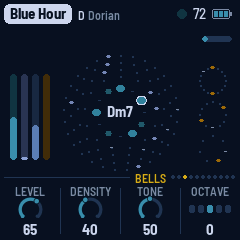
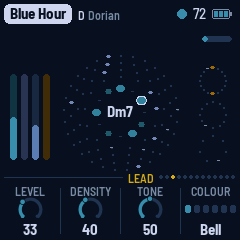
The Bells page is the Lead page: the melody, whatever voice; the Lead voice is now Synth

diff --git a/app/ui.c b/app/ui.c
@@ -18,7 +18,7 @@
 
 /* the pages, one a layer (a button each); SELECT steps through them in this order */
 enum { V_GARDEN, V_PAD, V_BELLS, V_ARP, V_BASS, V_PULSE, V_SPACE, V_SETUP, V_CHORDS, V_ROOTS, V_DEAL, V_RINGS, V_DREAM, NVIEWS };
-static const char *const VIEW_NAME[NVIEWS] = {"Garden", "Pad", "Bells", "Arp", "Bass", "Pulse", "Space", "Setup", "Chords", "Keys", "Deal", "Rings", "Dream"};
+static const char *const VIEW_NAME[NVIEWS] = {"Garden", "Pad", "Lead", "Arp", "Bass", "Pulse", "Space", "Setup", "Chords", "Keys", "Deal", "Rings", "Dream"};
 static const uint8_t VIEW_BTN[NVIEWS] = {B_HOME, B_ENV, B_ARP, B_ARP, B_LFO, B_SEQ, B_FX, B_GLO, B_SEL, B_SEL, B_SEL, B_SEQ, B_HOME};
 /* the four knobs of each page: a parameter, or one of these; and what the knob is called there */
 enum { K_LEDS = 100, K_CPU, K_NONE };
@@ -823,7 +823,7 @@ static void button(int b)
         {
             char t[8];
             en_param_text(P_BOCT, proj.par[P_BOCT], t);
-            say("BELL OCTAVE", t);
+            say("LEAD OCTAVE", t);
         }
         break;
     case B_SAVE:
@@ -1362,7 +1362,7 @@ static int help_lines(int b, const char *l[HELP_LINES])
     switch (b) {
     case B_HOME: L("THE DREAM: DREAM, RANGE,"); L("SPICE CAP, SEED"); L("AGAIN: THE GARDEN"); L("+ SELECT: TEMPO"); break;
     case B_ENV: L("THE PAD"); L("LEVEL, SWELL, BRIGHT,"); L("COLOUR"); break;
-    case B_ARP: L("THE BELLS"); L("LEVEL, DENSITY, TONE,"); L("COLOUR; AGAIN: THE ARP"); break;
+    case B_ARP: L("THE LEAD"); L("LEVEL, DENSITY, TONE,"); L("COLOUR; AGAIN: THE ARP"); break;
     case B_SEL: L("SELECT"); L("TAP: CHORDS, KEYS, DEAL"); L("HOLD: THIS PAGE'S"); L("OTHER KNOBS (+)"); break;
     case B_LFO: L("THE BASS"); L("LEVEL, OCTAVE, GLIDE, FIFTH"); break;
     case B_SEQ: L("THE PULSE"); L("LEVEL, HITS, SWING, HATS"); L("AGAIN: THE RINGS"); break;
@@ -1370,8 +1370,8 @@ static int help_lines(int b, const char *l[HELP_LINES])
     case B_GLO: L("SETUP"); L("ROOT, TUNE, MIDI OUT, LIGHTS"); break;
     case B_EDIT: L("THE NEXT CHORD,"); L("ON THE NEXT BAR"); break;
     case B_REC: L("FREEZE: THE CHORD HOLDS"); L(" AND THE REVERB RINGS ON"); L("AGAIN: THAW"); break;
-    case B_OCTDN: L("THE BELLS AN OCTAVE DOWN"); L("WITH OCT+, 5 S: UPDATE MODE"); break;
-    case B_OCTUP: L("THE BELLS AN OCTAVE UP"); L("WITH OCT-, 5 S: UPDATE MODE"); break;
+    case B_OCTDN: L("THE LEAD AN OCTAVE DOWN"); L("WITH OCT+, 5 S: UPDATE MODE"); break;
+    case B_OCTUP: L("THE LEAD AN OCTAVE UP"); L("WITH OCT-, 5 S: UPDATE MODE"); break;
     case B_SAVE: L("SAVES ALL EIGHT PIECES"); L("KEEP HOLDING: THE PIECE"); L(" BACK TO ITS RECIPE"); break;
     default: break;
     }
@@ -1958,7 +1958,7 @@ static void speak_dump(void)
     for (x = -2; x <= 2; x++) {
         char o[8];
         en_param_text(P_BOCT, x, o);
-        msg_text("BELL OCTAVE", o, t);
+        msg_text("LEAD OCTAVE", o, t);
         sp_print("MSG", t);
     }
     for (x = 30; x <= 120; x += 45) {

diff --git a/app/dsp/amb.c b/app/dsp/amb.c
@@ -25,12 +25,12 @@ const uint8_t EN_SLATE_BARS[EN_NBARS] = {1, 2, 3, 4, 6, 8, 12, 16, 24, 32};
 static const uint8_t EN_ROOT_BARS[EN_NRBARS] = {1, 2, 4, 8, 12, 16, 24, 32, 48, 64, 96, 128};
 
 static const en_param_t PARAMS[P_NPARAMS] = {
-    {"Pad", 0, 100, 60},      {"Bells", 0, 100, 33},    {"Bass", 0, 100, 45},     {"Pulse", 0, 100, 40},
+    {"Pad", 0, 100, 60},      {"Lead", 0, 100, 33},    {"Bass", 0, 100, 45},     {"Pulse", 0, 100, 40},
     {"Density", 0, 100, 40},  {"Evolve", 0, 100, 35},   {"Drift", 0, 100, 25},    {"Hits", 0, 100, 35},
     {"Echo", 0, 100, 45},     {"Echo time", 0, 5, 3},   {"Reverb", 0, 100, 65},   {"Size", 0, 100, 80},
-    {"Bright", 0, 100, 40},   {"Swell", 0, 100, 60},    {"Bell tone", 0, 100, 50}, {"Motion", 0, 100, 50},
+    {"Bright", 0, 100, 40},   {"Swell", 0, 100, 60},    {"Lead tone", 0, 100, 50}, {"Motion", 0, 100, 50},
     {"Tune", -50, 50, 0},     {"MIDI out", 0, 1, 1},    {"Tempo", 30, 120, 72},   {"Root", 0, 11, 2},
-    {"Mode", 0, EN_NMODES - 1, 1}, {"Bell oct", -2, 2, 0}, {"Pad tone", 0, 3, 0},
+    {"Mode", 0, EN_NMODES - 1, 1}, {"Lead oct", -2, 2, 0}, {"Pad tone", 0, 3, 0},
     {"Bass oct", -1, 1, 0},   {"Glide", 0, 100, 20},    {"Fifth", 0, 100, 35},
     {"Swing", 0, 100, 0},     {"Hats", 0, 100, 50},
     {"Chord 1", 0, 12 * EN_NSHAPE, 0}, {"Chord 2", 0, 12 * EN_NSHAPE, 0},
@@ -44,7 +44,7 @@ static const en_param_t PARAMS[P_NPARAMS] = {
     {"Root 1", 0, 12, 0},     {"Root 2", 0, 12, 0},     {"Root 3", 0, 12, 0},     {"Root 4", 0, 12, 0},
     {"Root bars 1", 0, EN_NRBARS - 1, 3}, {"Root bars 2", 0, EN_NRBARS - 1, 3}, {"Root bars 3", 0, EN_NRBARS - 1, 3},
     {"Root bars 4", 0, EN_NRBARS - 1, 3},
-    {"Bell colour", 0, EN_NBCOLOR - 1, 0},
+    {"Lead colour", 0, EN_NBCOLOR - 1, 0},
     {"Swoosh", 0, 100, 0},    {"Swsh length", 0, 100, 50}, {"Swsh often", 0, 100, 30}, {"Swsh tone", 0, 100, 50},
     {"Seed", 0, 999, 0},
     {"Deal", 0, 999, 0},     {"Deal count", 2, 4, 4}, {"Spice", 0, 100, 30}, {"Form", 0, EN_NDFORM - 1, 1},
@@ -94,7 +94,7 @@ static const uint8_t ARATE_STEPS[EN_NARATE] = {4, 3, 2, 1};      /* sixteenths a
 static const char *const APOLY_NAME[EN_NAPOLY] = {"Off", "3:4", "5:4", "3:2", "7:4"};
 static const uint8_t APOLY_NUM[EN_NAPOLY] = {1, 3, 5, 3, 7}, APOLY_DEN[EN_NAPOLY] = {1, 4, 4, 2, 4};
 static const float ARATE_DEC[EN_NARATE] = {1.0f, 0.8f, 0.6f, 0.4f};   /* the faster, the shorter the bell */
-static const char *const BCOLOR_NAME[EN_NBCOLOR] = {"Bell", "Soft", "Wood", "Strings", "Piano", "Lead"};
+static const char *const BCOLOR_NAME[EN_NBCOLOR] = {"Bell", "Soft", "Wood", "Strings", "Piano", "Synth"};
 static const char *const PADTONE_NAME[4] = {"Rhodes", "Voices", "Strings", "Noir"};
 static const char *const SPREAD_NAME[4] = {"Close", "Open", "Wide", "Vast"};
 static const char *const ETIME_NAME[6] = {"1/4.", "1/2", "1/2.", "1 bar", "2 bars", "4 bars"};

diff --git a/tools/gen_manual_figures.py b/tools/gen_manual_figures.py
@@ -94,7 +94,7 @@ def panel(screen_png):
          knob(105, 210, 24, "PRESETS", "Piece"), knob(215, 210, 24, "ALGORITHM", "Mode"),
          f'<rect x="58" y="284" width="210" height="58" rx="14" fill="{TRAY}"/>',
          button(72, 294, 82, 38, "OCT-"), button(170, 294, 82, 38, "OCT+"),
-         what(113, 362, "Bells down"), what(211, 362, "Bells up"),
+         what(113, 362, "Lead down"), what(211, 362, "Lead up"),
          f'<rect x="300" y="44" width="236" height="236" rx="26" fill="#111214"/>',
          f'<image x="318" y="62" width="200" height="200" href="{png_data_uri(screen_png)}" style="image-rendering:pixelated"/>']
     for i in range(4):
@@ -102,7 +102,7 @@ def panel(screen_png):
     s.append(what(766, 136, "The page's four values (KNOB1: a layer's level)"))
     s.append(f'<rect x="568" y="146" width="400" height="236" rx="18" fill="{TRAY}"/>')
     top = [("FX", "Space"), ("SEL", ""), ("ENV", "Pad"), ("LFO", "Bass"), ("EDIT", "Next|chord"), ("GLO", "Setup")]
-    bot = [("HOME", "Garden"), ("SAVE", "Save, hold:|recipe"), ("ARP", "Bells"), ("SEQ", "Pulse"),
+    bot = [("HOME", "Dream"), ("SAVE", "Save, hold:|recipe"), ("ARP", "Lead"), ("SEQ", "Pulse"),
            (("PLAY", "STOP"), "Grow /|rest"), ("REC", "Freeze")]
     for i in range(6):
         x = 582 + i * 63

diff --git a/tests/host/amb_test.c b/tests/host/amb_test.c
@@ -1198,7 +1198,7 @@ int main(void)
 
     /* the bells' colours: each sounds, stays bounded and clean; the strike comes as it should */
     {
-        static const char *const NAME[EN_NBCOLOR] = {"Bell", "Soft", "Wood", "Strings", "Piano", "Lead"};
+        static const char *const NAME[EN_NBCOLOR] = {"Bell", "Soft", "Wood", "Strings", "Piano", "Synth"};
         float early[EN_NBCOLOR], later[EN_NBCOLOR];
         char t[12];
         int c;

diff --git a/docs/MANUAL.md b/docs/MANUAL.md
@@ -95,13 +95,13 @@ The drawing at the top shows them all; here they are in more detail.
 | REC | **Freeze**: the chord holds and the reverb rings on forever, while the bells and pulse go on dry above it. Press again to thaw. Lit while frozen. |
 | EDIT | The next chord, at the start of the next bar (at once while resting). |
 | HOME | The Dream page, where it starts: Dream, Range, Spice cap, Seed. Again: the Garden page. |
-| ENV · ARP · LFO · SEQ | The layers' pages: Pad, Bells, Bass, Pulse. |
+| ENV · ARP · LFO · SEQ | The layers' pages: Pad, Lead, Bass, Pulse. |
 | FX · GLO | The Space and Setup pages. The lit button shows the page. |
 | SELECT | The previous or next page. Hold HOME and turn it for the tempo, from any page. |
 | ALGORITHM | Mode: Ionian, Dorian, Phrygian, Lydian, Mixolydian, Aeolian, pentatonic major and minor. Loads the mode's scale; editing it with the keys makes it Custom. |
 | PRESETS | The piece (see [The pieces](#s6)). |
 | KNOB 1–4 | The four values on the screen. A few clicks are always single steps; a quick turn speeds up, so half a turn sweeps the range. |
-| OCT− / OCT+ | The bells' octave, two down to two up, from any page. |
+| OCT− / OCT+ | The lead's octave, two down to two up, from any page. |
 | MASTER | Volume. |
 | SAVE | Saves all eight pieces. Held for 1.5 s: puts the piece back to its recipe. |
 
@@ -150,7 +150,7 @@ Nightscape FM grows four layers from one scale and one chord.
   a filtered Rhodes that blooms brighter as it swells, or sung voices. Every so often (**Drift**)
   the chord moves to another one in the scale. Voices on notes the new chord shares hold to the
   end of their breath; the others fade out and breathe in again on their new notes.
-- **Bells:** FM bells, soft-struck like a piano slowed to half speed, played by four tape loops
+- **Lead:** the melody, in six voices. Its first, **Bell**: FM bells, soft-struck like a piano slowed to half speed, played by four tape loops
   13, 17, 23 and 29 beats long. Each loop holds a few notes, so the loops slide against each other
   and the melody never quite repeats. Each loop is its own shade of bell, and now and then a
   note rings with its octave.
@@ -197,7 +197,7 @@ the same for all.
 
 ## 7. The pages
 
-**Hold SELECT** on the Garden, Pad, Bells, Bass, Space, Setup, Chords, Keys or Deal page and the knobs change to that
+**Hold SELECT** on the Garden, Pad, Lead, Bass, Space, Setup, Chords, Keys or Deal page and the knobs change to that
 page's other settings; let go and they're back. Holding and turning doesn't change the page. While it's held the
 page's name has a **+** (or a **-** where a page has no second layer), and a place with nothing in it shows a dash.
 Hold SELECT for two seconds without turning and a card says what it does.
@@ -310,18 +310,18 @@ sound. Everything it deals shows on its own page and can be turned by hand after
   keeps the dream playing; on from there, its neighbours. A toast names it (**DREAM 417**, and its chords).
 - **Range (KNOB 2):** how far the sound may move from the piece's recipe. At 0 only the notes, the chords, the
   key and the voices are dealt. On up, the levels, Density, Evolve, Motion, Hits, Hats, Swing, the echo and reverb, the
-  pad's Swell and Bright, the bells' tone, Glide, Fifth, Sparkle and Swoosh move too, each within a window round
+  pad's Swell and Bright, the lead's tone, Glide, Fifth, Sparkle and Swoosh move too, each within a window round
   the recipe, so the piece stays itself. The tempo moves at most 15%. The voicings come too, more often
-  the higher it is: the pad's Notes (from 30) and the bells' octave, one either way, and the pad's Spread.
+  the higher it is: the pad's Notes (from 30) and the lead's octave, one either way, and the pad's Spread.
 - **The voices,** whatever Range, a new pair each dream: the pad's Colour (Rhodes, Voices, Strings, Noir),
-  and the bells' Colour, **Lead** most often (about 3 dreams in 8; with it Density no higher than 45, so the
+  and the lead's Colour, **Synth** most often (about 3 dreams in 8; with it Density no higher than 45, so the
   solo sings), then Bell, Soft, Wood, Strings and Piano.
 - **Spice cap (KNOB 3):** the most Spice either dealer may be given.
 - **The scale too,** with Range: calm dreams lean to the open, bright ones (Lydian, Ionian, major pentatonic,
   Dorian), lively ones to Mixolydian, Aeolian and minor pentatonic; Phrygian seldom.
 - **The key,** whatever Range: any of the twelve, a new one each dream. The song still starts on its home
   chord, so the first chord lands anywhere.
-- **The Lead** sits an octave down (now and then two), so it sings rather than pierces. The bells' level
+- **Synth** sits an octave down (now and then two), so it sings rather than pierces. The lead's level
   stays at the piece's (33).
 - **What it never does:** turn on a part the recipe has off, or turn one down to nothing; change the tuning or
   MIDI. With Dream off, PRESETS brings a piece back in its own key.
@@ -336,7 +336,7 @@ changing on its own clock.
 
 - **A section** lasts whole passes of the chords, about two and a half minutes. With keys dealt or set, each key is a
   section, home the first, and lasts at least that long.
-- **Through a section** the bells' loops keep their melody. What Density adds back comes from it first.
+- **Through a section** the lead's loops keep their melody. What Density adds back comes from it first.
 - **At a section's end** the melody moves on (further with Evolve), and the rings, the arp and the bass's figure may
   turn. The pulse may breathe for the last two bars before it.
 - **A section comes back as itself:** without keys the sections go A B A C A B..., and an A brings back the first
@@ -354,10 +354,10 @@ pad's note up high, and a rising chord when one comes. All of the chord and its 
 - **Length (KNOB 2):** how long each wave swells and wanes, 5 s to 1 minute.
 - **Often (KNOB 3):** the rest between waves, 10 s to 5 minutes.
 
-Each wave varies a little, and the arc leans on it. It shares the bells' voices, and its volume
-follows the Bells level. Turned up from 0, the first wave starts within a couple of seconds.
+Each wave varies a little, and the arc leans on it. It shares the lead's voice, and its volume
+follows the Lead level. Turned up from 0, the first wave starts within a couple of seconds.
 
-### Hold SELECT: Pad, Bass and Bells
+### Hold SELECT: Pad, Bass and Lead
 
 - **Pad, Notes (KNOB 2):** how much of the chord the pad sings. 4 is the whole chord; 3 its root,
   third and fifth; 2 its root and fifth, open. Under 4, the arc moves it by one as each chord comes.
@@ -370,19 +370,19 @@ follows the Bells level. Turned up from 0, the first wave starts within a couple
   that speed. It plays the root first, then the fifth (from 25), the octave (from 50), and the third
   and seventh (from 75). Only the chord's tones, so it follows the slate and the drift. Fifth is for
   the held bass; with Notes up, Glide is capped so each note arrives.
-- **Bells, Octave (KNOB 1):** two down to two up (OCT− and OCT+ too).
-- **Bells, Colour** is on the Bells page itself now, KNOB 4: the bells' sound. **Bell** is the one they've always had; **Soft** is round,
+- **Lead, Octave (KNOB 1):** two down to two up (OCT− and OCT+ too).
+- **Lead, Colour** is on the Lead page itself, KNOB 4: the lead's voice. **Bell** is the one it's always had; **Soft** is round,
   with no strike; **Wood** is hollow and holds; **Strings** swell slowly and hang; **Piano** strikes
   warm and mellows. Tone still shapes each one. The loops, the arp and Sparkle all play through it.
   They are the same two operators set differently: impressions, not the instruments themselves.
-  **Lead** is not a bell: a solo synth that takes all their notes, two voices in turn, so each starts clean on its
+  **Synth** is not a bell: a solo synth that takes all their notes, two voices in turn, so each starts clean on its
   pitch while the one before trails off:
   two saws through a filter that opens as it sounds, a late vibrato, into the echo and reverb.
-  Bell tone is its brightness. With busy loops it runs; with few, it sings.
+  Tone is its brightness. With busy loops it runs; with few, it sings.
 
 ### ARP again: Arp
 
-Press ARP from the Bells page for the arp's own page, and again to go back.
+Press ARP from the Lead page for the arp's own page, and again to go back.
 
 - **Arp (KNOB 1):** **Off**, or an arpeggio of the chord's tones in place of the loops: **Up**,
   **Down**, **Up/Dn**, **Dn/Up**, **Random**, **Converge** (in from both ends) or **Diverge** (out
@@ -392,7 +392,7 @@ Press ARP from the Bells page for the arp's own page, and again to go back.
 - **Poly (KNOB 4):** **Off**, or the arp against the grid: **3:4**, **5:4**, **3:2** or **7:4**
   (so many notes in the time of so many Rate steps). It stays locked to the tempo, shifts against
   the pulse and comes back around. Every note takes the chord as it's struck.
-- **With the arp on, Density** (on the Bells page) picks which of 16 steps sound, spread as Hits does
+- **With the arp on, Density** (on the Lead page) picks which of 16 steps sound, spread as Hits does
   the pulse: 100 plays every step. The arc and Evolve act on it, and Swing does while Poly is off.
 
 ### ENV: Pad
@@ -407,16 +407,16 @@ Press ARP from the Bells page for the arp's own page, and again to go back.
   warm filter that Bright opens; or **Noir**, brass in the manner of a CS-80, a filter that blooms
   open with each breath and a slow vibrato, for the rain-and-neon feel. Each piece keeps its own.
 
-### ARP: Bells
+### ARP: Lead
 
-![The Bells page: LEVEL 65, DENSITY 40, TONE 50, OCTAVE 0](img/screen-bells.png "The Bells page")
+![The Lead page: LEVEL, DENSITY, TONE, COLOUR](img/screen-bells.png "The Lead page")
 
 - **Level.**
 - **Density:** how many notes each loop holds, none at 0 to five at the top. Low, they're the
   chord's tones; from 20, passing notes come in. A change shows up as
   each loop comes round.
 - **Tone:** from round and soft-struck to a long metallic clang.
-- **Colour:** the bells' sound: Bell, Soft, Wood, Strings, Piano, or Lead, a solo synth (below). The pad's
+- **Colour:** the lead's voice: Bell, Soft, Wood, Strings, Piano, or Synth, a solo synth (above). The pad's
   Colour is its page's KNOB 4 too. Octave is with SELECT held.
 
 ### LFO: Bass
@@ -470,7 +470,7 @@ and the open hat (7). Press SEQ again from the Pulse page, and again to go back.
 ### Seed, on the Dream page
 
 **KNOB 4**, beside Dream, Range and Spice cap: the piece's dice together. A piece's knobs are its personality; the dice decide the rest: which notes
-the bells' loops hold, how the patterns turn, where the chords drift, how the arc rises and falls.
+the lead's loops hold, how the patterns turn, where the chords drift, how the arc rises and falls.
 
 - **Wild** (all the way down) is a new garden each time, as it always was.
 - **A number, 1 to 999,** grows the same garden each time you press PLAY. It still grows and changes as
@@ -536,7 +536,7 @@ chord and the scale. The FM-1 says nothing until the page connects, so a DAW on 
 ## 9. Saving
 
 Nightscape FM keeps all eight pieces in the FM-1's memory, each as you left it: the knobs, the scale,
-the tempo, the pad's colour and the bells' octave, plus Tune, MIDI out and Lights.
+the tempo, the pad's colour and the lead's octave, plus Tune, MIDI out and Lights.
 
 - **By itself:** a few seconds after a change, but only while resting. Writing to the memory
   interrupts the sound for a moment, so it never happens while the garden grows. A dot at the top
@@ -633,7 +633,7 @@ The defaults are Blue Hour's; each piece has its own.
 | Garden | Length (SELECT held) | 5 s – 1 min | 20 s |
 | Garden | Often (SELECT held) | 10 s – 5 min | 45 s |
 | Pad | Notes (SELECT held) | 2, 3, 4 | 4 |
-| Bells | Colour | Bell, Soft, Wood, Strings, Piano, Lead | Bell |
+| Lead | Colour | Bell, Soft, Wood, Strings, Piano, Synth | Bell |
 | Arp | Arp | Off, Up, Down, Up/Dn, Dn/Up, Random, Converge, Diverge | Off |
 | Arp | Rate | 1/4, 1/8., 1/8, 1/16 | 1/8 |
 | Arp | Range | 1–3 octaves | 2 |
@@ -645,10 +645,10 @@ The defaults are Blue Hour's; each piece has its own.
 | Pad | Swell | 0–100 | 60 |
 | Pad | Bright | 0–100 | 40 |
 | Pad | Colour | Rhodes, Voices, Strings, Noir | Rhodes |
-| Bells | Level | 0–100 | 65 |
-| Bells | Density | 0–100 (0 to 5 notes a loop) | 40 |
-| Bells | Tone | 0–100 | 50 |
-| Bells | Octave (SELECT held) | −2 – +2 | 0 |
+| Lead | Level | 0–100 | 33 |
+| Lead | Density | 0–100 (0 to 5 notes a loop) | 40 |
+| Lead | Tone | 0–100 | 50 |
+| Lead | Octave (SELECT held) | −2 – +2 | 0 |
 | Bass | Level | 0–100 | 45 |
 | Bass | Octave | −1 – +1 | 0 |
 | Bass | Glide | 0–100 (20 ms – 1.2 s) | 20 |

diff --git a/README.md b/README.md
@@ -26,10 +26,10 @@ fails to start twice comes up in a safe mode it can reach.
 |---|---|
 | Keys | The scale: each key adds its note or takes it out |
 | PLAY · REC · EDIT | Grow / rest · freeze · the next chord |
-| HOME · ENV · ARP · LFO · SEQ · FX · GLO | The pages: Garden, Pad, Bells, Bass, Pulse, Space, Setup; KNOB 1–4 set their values, a layer's level on KNOB 1 |
+| HOME · ENV · ARP · LFO · SEQ · FX · GLO | The pages: Garden, Pad, Lead, Bass, Pulse, Space, Setup; KNOB 1–4 set their values, a layer's level on KNOB 1 |
 | SELECT | The previous or next page; with HOME held, the tempo |
 | ALGORITHM · PRESETS | The mode · the piece (eight of them) |
-| OCT− / OCT+ | The bells' octave |
+| OCT− / OCT+ | The lead's octave |
 | SAVE | Saves; held, puts the piece back to its recipe |
 
 Hold any button for a second and a card says what it does.
